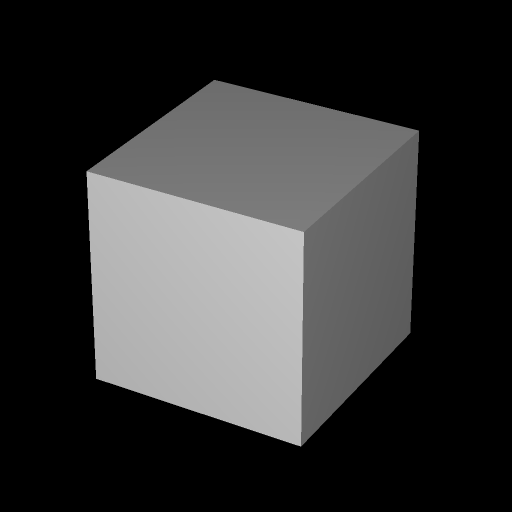
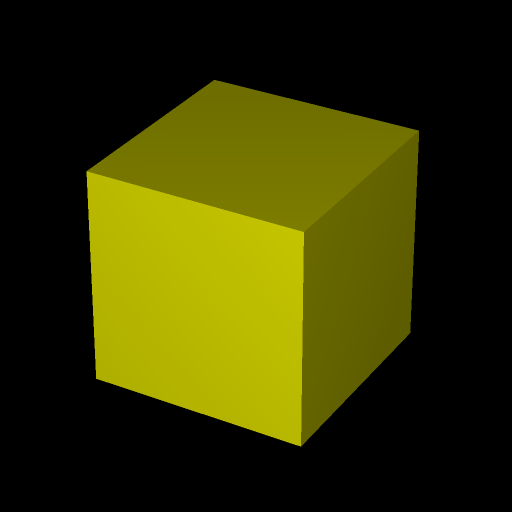
Paint scenes

diff --git a/Imagine.Scenes/Scene.cs b/Imagine.Scenes/Scene.cs
@@ -20,8 +20,22 @@ public static class Scene
 	public static readonly double TetrahedronInradius = 1D / double.Sqrt(6D);
 	public static readonly double TetrahedronMidradius = 1D / double.Sqrt(2D);
 
+	private static readonly ColorHsv ConeColor = new(11D / 12D, 1D, 1D);
+	private static readonly ColorHsv CubeFaceDownColor = new(2D / 12D, 1D, 1D);
+	private static readonly ColorHsv CubeVertexDownColor = new(4D / 12D, 1D, 1D);
+	private static readonly ColorHsv CylinderColor = new(10D / 12D, 1D, 1D);
+	private static readonly ColorHsv DodecahedronFaceDownColor = new(6D / 12D, 1D, 1D);
+	private static readonly ColorHsv DodecahedronVertexDownColor = new(8D / 12D, 1D, 1D);
+	private static readonly ColorHsv IcosahedronFaceDownColor = new(9D / 12D, 1D, 1D);
+	private static readonly ColorHsv IcosahedronVertexDownColor = new(7D / 12D, 1D, 1D);
+	private static readonly ColorHsv OctahedronFaceDownColor = new(5D / 12D, 1D, 1D);
+	private static readonly ColorHsv OctahedronVertexDownColor = new(3D / 12D, 1D, 1D);
+	private static readonly ColorHsv TetrahedronFaceDownColor = new(0D / 12D, 1D, 1D);
+	private static readonly ColorHsv TetrahedronVertexDownColor = new(1D / 12D, 1D, 1D);
+
 	public static IScene Cone(Vector3 axis, double angle) =>
-		new Cone(axis, angle);
+		new Cone(axis, angle)
+			.Painted(ConeColor);
 
 	public static IScene CubeFaceDownWithCircumradius(double circumradius) =>
 		CubeFaceDownWithInradius(circumradius * CubeInradius / CubeCircumradius);
@@ -40,7 +54,8 @@ public static class Scene
 			new Vector3Spherical(inradius, 1D * deltaPhi, theta1),
 			new Vector3Spherical(inradius, 2D * deltaPhi, theta1),
 			new Vector3Spherical(inradius, 3D * deltaPhi, theta1),
-			new Vector3Spherical(inradius, 0D, theta2));
+			new Vector3Spherical(inradius, 0D, theta2))
+			.Painted(CubeFaceDownColor);
 	}
 
 	public static IScene CubeFaceDownWithMidradius(double midradius) =>
@@ -62,14 +77,16 @@ public static class Scene
 			new Vector3Spherical(inradius, 4D * deltaPhi, theta0),
 			new Vector3Spherical(inradius, 1D * deltaPhi, theta1),
 			new Vector3Spherical(inradius, 3D * deltaPhi, theta1),
-			new Vector3Spherical(inradius, 5D * deltaPhi, theta1));
+			new Vector3Spherical(inradius, 5D * deltaPhi, theta1))
+			.Painted(CubeVertexDownColor);
 	}
 
 	public static IScene CubeVertexDownWithMidradius(double midradius) =>
 		CubeVertexDownWithInradius(midradius * CubeInradius / CubeMidradius);
 
 	public static IScene Cylinder(Vector3 axis, double radius) =>
-		new Cylinder(axis, radius);
+		new Cylinder(axis, radius)
+			.Painted(CylinderColor);
 
 	public static IScene DodecahedronFaceDownWithCircumradius(double circumradius) =>
 		DodecahedronFaceDownWithInradius(circumradius * DodecahedronInradius / DodecahedronCircumradius);
@@ -95,7 +112,8 @@ public static class Scene
 			new Vector3Spherical(inradius, 4D * deltaPhi, theta2),
 			new Vector3Spherical(inradius, 6D * deltaPhi, theta2),
 			new Vector3Spherical(inradius, 8D * deltaPhi, theta2),
-			new Vector3Spherical(inradius, 0D, theta3));
+			new Vector3Spherical(inradius, 0D, theta3))
+			.Painted(DodecahedronFaceDownColor);
 	}
 
 	public static IScene DodecahedronFaceDownWithMidradius(double midradius) =>
@@ -125,7 +143,8 @@ public static class Scene
 			new Vector3Spherical(inradius, 4D * deltaPhi, theta2),
 			new Vector3Spherical(inradius, 1D * deltaPhi, theta3),
 			new Vector3Spherical(inradius, 3D * deltaPhi, theta3),
-			new Vector3Spherical(inradius, 5D * deltaPhi, theta3));
+			new Vector3Spherical(inradius, 5D * deltaPhi, theta3))
+			.Painted(DodecahedronVertexDownColor);
 	}
 
 	public static IScene DodecahedronVertexDownWithMidradius(double midradius) =>
@@ -172,7 +191,8 @@ public static class Scene
 			new Vector3Spherical(inradius, 0D * deltaPhi, theta4),
 			new Vector3Spherical(inradius, 2D * deltaPhi, theta4),
 			new Vector3Spherical(inradius, 4D * deltaPhi, theta4),
-			new Vector3Spherical(inradius, 0D, theta5));
+			new Vector3Spherical(inradius, 0D, theta5))
+			.Painted(IcosahedronFaceDownColor);
 	}
 
 	public static IScene IcosahedronFaceDownWithMidradius(double midradius) =>
@@ -210,7 +230,8 @@ public static class Scene
 			new Vector3Spherical(inradius, 3D * deltaPhi, theta3),
 			new Vector3Spherical(inradius, 5D * deltaPhi, theta3),
 			new Vector3Spherical(inradius, 7D * deltaPhi, theta3),
-			new Vector3Spherical(inradius, 9D * deltaPhi, theta3));
+			new Vector3Spherical(inradius, 9D * deltaPhi, theta3))
+			.Painted(IcosahedronVertexDownColor);
 	}
 
 	public static IScene IcosahedronVertexDownWithMidradius(double midradius) =>
@@ -239,7 +260,8 @@ public static class Scene
 			new Vector3Spherical(inradius, 0D * deltaPhi, theta2),
 			new Vector3Spherical(inradius, 2D * deltaPhi, theta2),
 			new Vector3Spherical(inradius, 4D * deltaPhi, theta2),
-			new Vector3Spherical(inradius, 0D, theta3));
+			new Vector3Spherical(inradius, 0D, theta3))
+			.Painted(OctahedronFaceDownColor);
 	}
 
 	public static IScene OctahedronFaceDownWithMidradius(double midradius) =>
@@ -263,7 +285,8 @@ public static class Scene
 			new Vector3Spherical(inradius, 1D * deltaPhi, theta1),
 			new Vector3Spherical(inradius, 3D * deltaPhi, theta1),
 			new Vector3Spherical(inradius, 5D * deltaPhi, theta1),
-			new Vector3Spherical(inradius, 7D * deltaPhi, theta1));
+			new Vector3Spherical(inradius, 7D * deltaPhi, theta1))
+			.Painted(OctahedronVertexDownColor);
 	}
 
 	public static IScene OctahedronVertexDownWithMidradius(double midradius) =>
@@ -298,7 +321,8 @@ public static class Scene
 			new Vector3Spherical(inradius, 0D * deltaPhi, theta0),
 			new Vector3Spherical(inradius, 2D * deltaPhi, theta0),
 			new Vector3Spherical(inradius, 4D * deltaPhi, theta0),
-			new Vector3Spherical(inradius, 0D, theta1));
+			new Vector3Spherical(inradius, 0D, theta1))
+			.Painted(TetrahedronFaceDownColor);
 	}
 
 	public static IScene TetrahedronFaceDownWithMidradius(double midradius) =>
@@ -318,7 +342,8 @@ public static class Scene
 			new Vector3Spherical(inradius, 0D, theta0),
 			new Vector3Spherical(inradius, 1D * deltaPhi, theta1),
 			new Vector3Spherical(inradius, 3D * deltaPhi, theta1),
-			new Vector3Spherical(inradius, 5D * deltaPhi, theta1));
+			new Vector3Spherical(inradius, 5D * deltaPhi, theta1))
+			.Painted(TetrahedronVertexDownColor);
 	}
 
 	public static IScene TetrahedronVertexDownWithMidradius(double midradius) =>

diff --git a/Imagine.Tests/ProjectorImageTests.cs b/Imagine.Tests/ProjectorImageTests.cs
@@ -14,7 +14,7 @@ public class ProjectorImageTests
 			Scene.DodecahedronMidradius / Scene.DodecahedronCircumradius,
 			Scene.IcosahedronMidradius / Scene.IcosahedronCircumradius);
 
-	private static readonly double SphereRadius =
+	private static readonly double SphereAlmostTouchingCubeEdgeRadius =
 		(Constants.Circumradius * Scene.CubeMidradius / Scene.CubeCircumradius) - Narrow;
 
 	private static readonly double TetrahedronMidradius =
@@ -33,7 +33,7 @@ public class ProjectorImageTests
 			subsamples: 2);
 
 	private static readonly IScene BoundingSphere = Scene.SphereWithRadius(Constants.Circumradius).Transparent();
-	private static readonly IScene Sphere = Scene.SphereWithRadius(SphereRadius);
+	private static readonly IScene SphereAlmostTouchingCubeEdge = Scene.SphereWithRadius(SphereAlmostTouchingCubeEdgeRadius);
 
 	private static readonly Dictionary<string, IScene> Scenes =
 		new()
@@ -53,9 +53,6 @@ public class ProjectorImageTests
 				Scene.Union(
 					Scene.CubeFaceDownWithMidradius(CubeOctahedronMidradius),
 					Scene.OctahedronVertexDownWithMidradius(CubeOctahedronMidradius)),
-			["cube-face-down-painted"] =
-				Scene.CubeFaceDownWithCircumradius(Constants.Circumradius)
-					.Painted(Color.Red),
 			["cube-face-down-rotated"] =
 				Scene.CubeFaceDownWithCircumradius(Constants.Circumradius)
 					.Rotated(double.Pi / 4D),
@@ -66,15 +63,15 @@ public class ProjectorImageTests
 				Scene.Intersection(
 					Scene.CubeFaceDownWithCircumradius(Constants.Circumradius),
 					Scene.SphereWithRadius(1D).
-						Scaled(SphereRadius)),
+						Scaled(SphereAlmostTouchingCubeEdgeRadius)),
 			["cube-face-down-sphere-inverted-union"] =
 				Scene.Intersection(
 					Scene.CubeFaceDownWithCircumradius(Constants.Circumradius),
-					Sphere.Inverted()),
+					SphereAlmostTouchingCubeEdge.Inverted()),
 			["cube-face-down-sphere-union"] =
 				Scene.Union(
 					Scene.CubeFaceDownWithCircumradius(Constants.Circumradius),
-					Sphere),
+					SphereAlmostTouchingCubeEdge),
 			["cube-face-down-translated"] =
 				Scene.CubeFaceDownWithCircumradius(Constants.Circumradius)
 					.Translated(new(0D, Constants.Circumradius / 4D, 0D)),
@@ -123,14 +120,14 @@ public class ProjectorImageTests
 					Scene.PlaneThroughOrigin(Vector3.UnitZ),
 					BoundingSphere),
 			["sphere"] =
-				Sphere,
+				Scene.SphereWithRadius(Constants.Circumradius),
 			["sphere-cone-inverted-intersection"] =
 				Scene.Intersection(
-					Sphere,
+					SphereAlmostTouchingCubeEdge,
 					Scene.Cone(Vector3.UnitZ, double.Pi / 2D).Inverted()),
 			["sphere-cube-face-down-inverted-intersection"] =
 				Scene.Intersection(
-					Sphere,
+					SphereAlmostTouchingCubeEdge,
 					Scene.CubeFaceDownWithCircumradius(Constants.Circumradius)),
 			["sphere-painted-hsv"] =
 				Scene.SphereWithRadius(1D)
